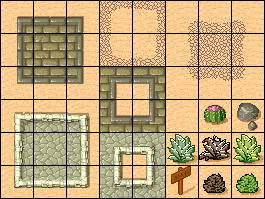
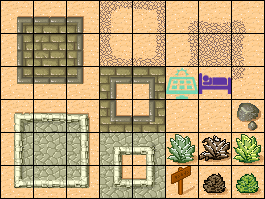
You can now hold R to place residences, S to place solar panels

Changed region(s): [[0.6038, 0.3317, 0.8755, 0.5126], [0.7547, 0.5126, 0.8755, 0.6332]]

diff --git a/scripts/game.js b/scripts/game.js
@@ -47,15 +47,18 @@ require(['Phaser', 'jquery'], function(Phaser, $) {
         function preload() {
             var url = (loaded) ? null : 'data/desert.json';
             var data = loaded || null;
-            console.log(url)
-            console.log(data)
             //debugger
             game.load.tilemap('desert', url, data, Phaser.Tilemap.TILED_JSON);
+            game.load.tilemap('buildings', 'data/buildings.json', null, Phaser.Tilemap.TILED_JSON);
             game.load.image('tiles', 'tmw_desert_spacing.png');
         }
 
         function create() {
             map = game.add.tilemap('desert');
+            buildings = game.add.tilemap('buildings');
+            desert = buildings.getTile(0, 0);
+            solar_panel = buildings.getTile(1, 0);
+            residence = buildings.getTile(2, 0);
             map.addTilesetImage('Desert', 'tiles');
             currentTile = map.getTile(17, 16);
             layer = map.createLayer('Ground');
@@ -64,7 +67,7 @@ require(['Phaser', 'jquery'], function(Phaser, $) {
             marker.lineStyle(2, 0x000000, 1);
             marker.drawRect(0, 0, 32, 32);
             cursors = game.input.keyboard.createCursorKeys();
-            restart_key = game.input.keyboard.addKey(Phaser.Keyboard.R);
+            restart_key = game.input.keyboard.addKey(Phaser.Keyboard.Q);
             restart_key.onDown.add(function(){
                 get_new_game();
             }, this);
@@ -74,13 +77,23 @@ require(['Phaser', 'jquery'], function(Phaser, $) {
             marker.x = layer.getTileX(game.input.activePointer.worldX) * 32;
             marker.y = layer.getTileY(game.input.activePointer.worldY) * 32;
             if (game.input.mousePointer.isDown) {
-                if (game.input.keyboard.isDown(Phaser.Keyboard.SHIFT)) {
-                    currentTile = map.getTile(layer.getTileX(marker.x), layer.getTileY(marker.y));
-                    console.log(currentTile)
+                // Holding shift
+                if (game.input.keyboard.isDown(Phaser.Keyboard.S)) {
+                    console.log("painting solar")
+                    map.putTile(solar_panel, layer.getTileX(marker.x), layer.getTileY(marker.y))
+                    // currentTile = map.getTile(layer.getTileX(marker.x), layer.getTileY(marker.y));
+                    // console.log(currentTile)
+                } else if (game.input.keyboard.isDown(Phaser.Keyboard.R)) {
+                    console.log("painting residence")
+                    map.putTile(residence, layer.getTileX(marker.x), layer.getTileY(marker.y))
+                    // currentTile = map.getTile(layer.getTileX(marker.x), layer.getTileY(marker.y));
+                    // console.log(currentTile)
                 } else {
-                    if (map.getTile(layer.getTileX(marker.x), layer.getTileY(marker.y)) != currentTile) {
-                        map.putTile(currentTile, layer.getTileX(marker.x), layer.getTileY(marker.y))
-                    }
+                    // Just clicking
+                    map.putTile(desert, layer.getTileX(marker.x), layer.getTileY(marker.y))
+                    // if (map.getTile(layer.getTileX(marker.x), layer.getTileY(marker.y)) != currentTile) {
+                    //     map.putTile(currentTile, layer.getTileX(marker.x), layer.getTileY(marker.y))
+                    // }
                 }
             }
 
@@ -98,7 +111,7 @@ require(['Phaser', 'jquery'], function(Phaser, $) {
         }
 
         function render() {
-            game.debug.text('Left-click to paint. Shift + Left-click to select tile. Arrows to scroll.', 32, 32, '#efefef');
+            game.debug.text('Q = Restart\nR = Residence\nS = Solar', 32, 32, '#efefef');
         }
 
 
